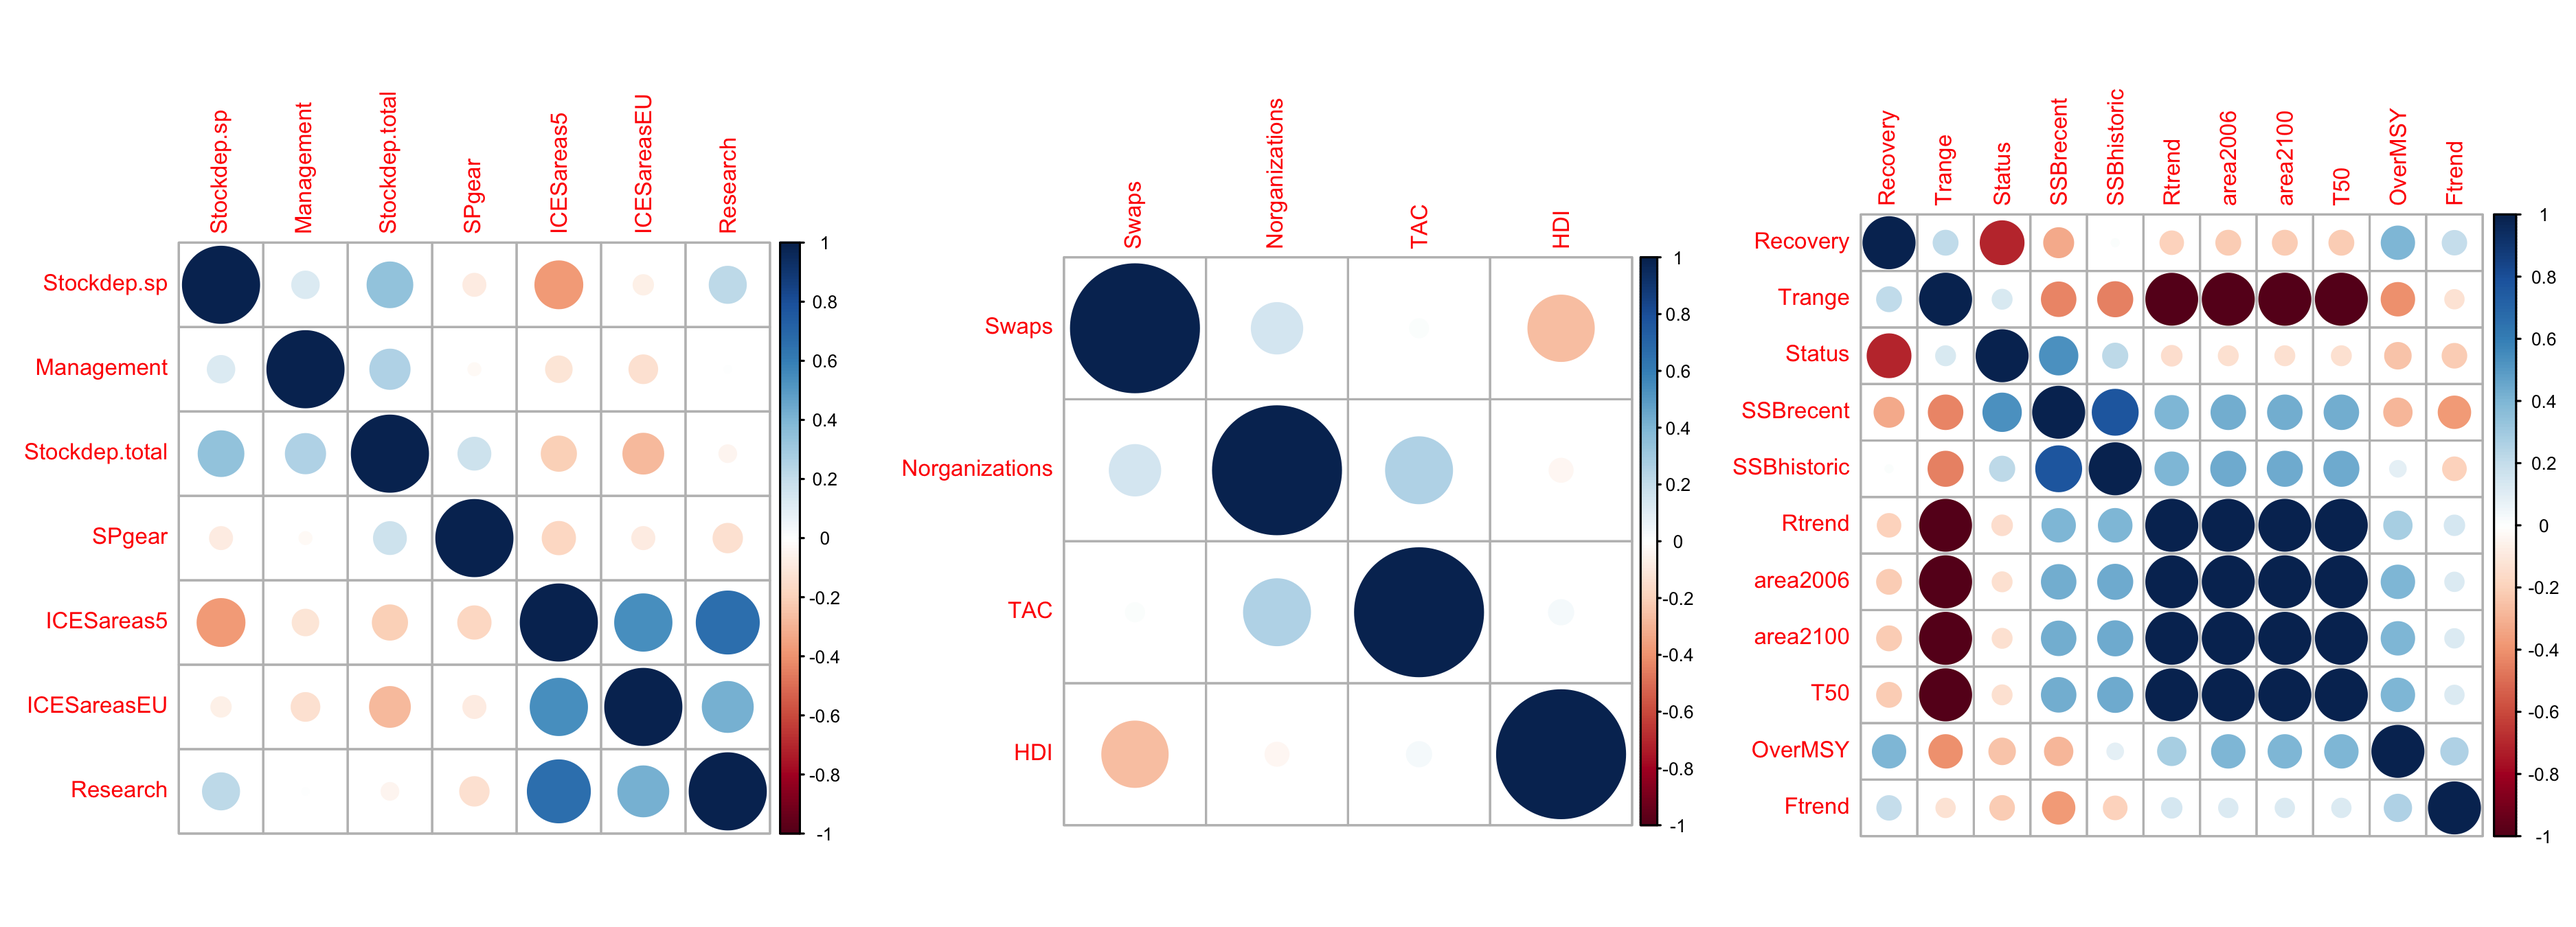
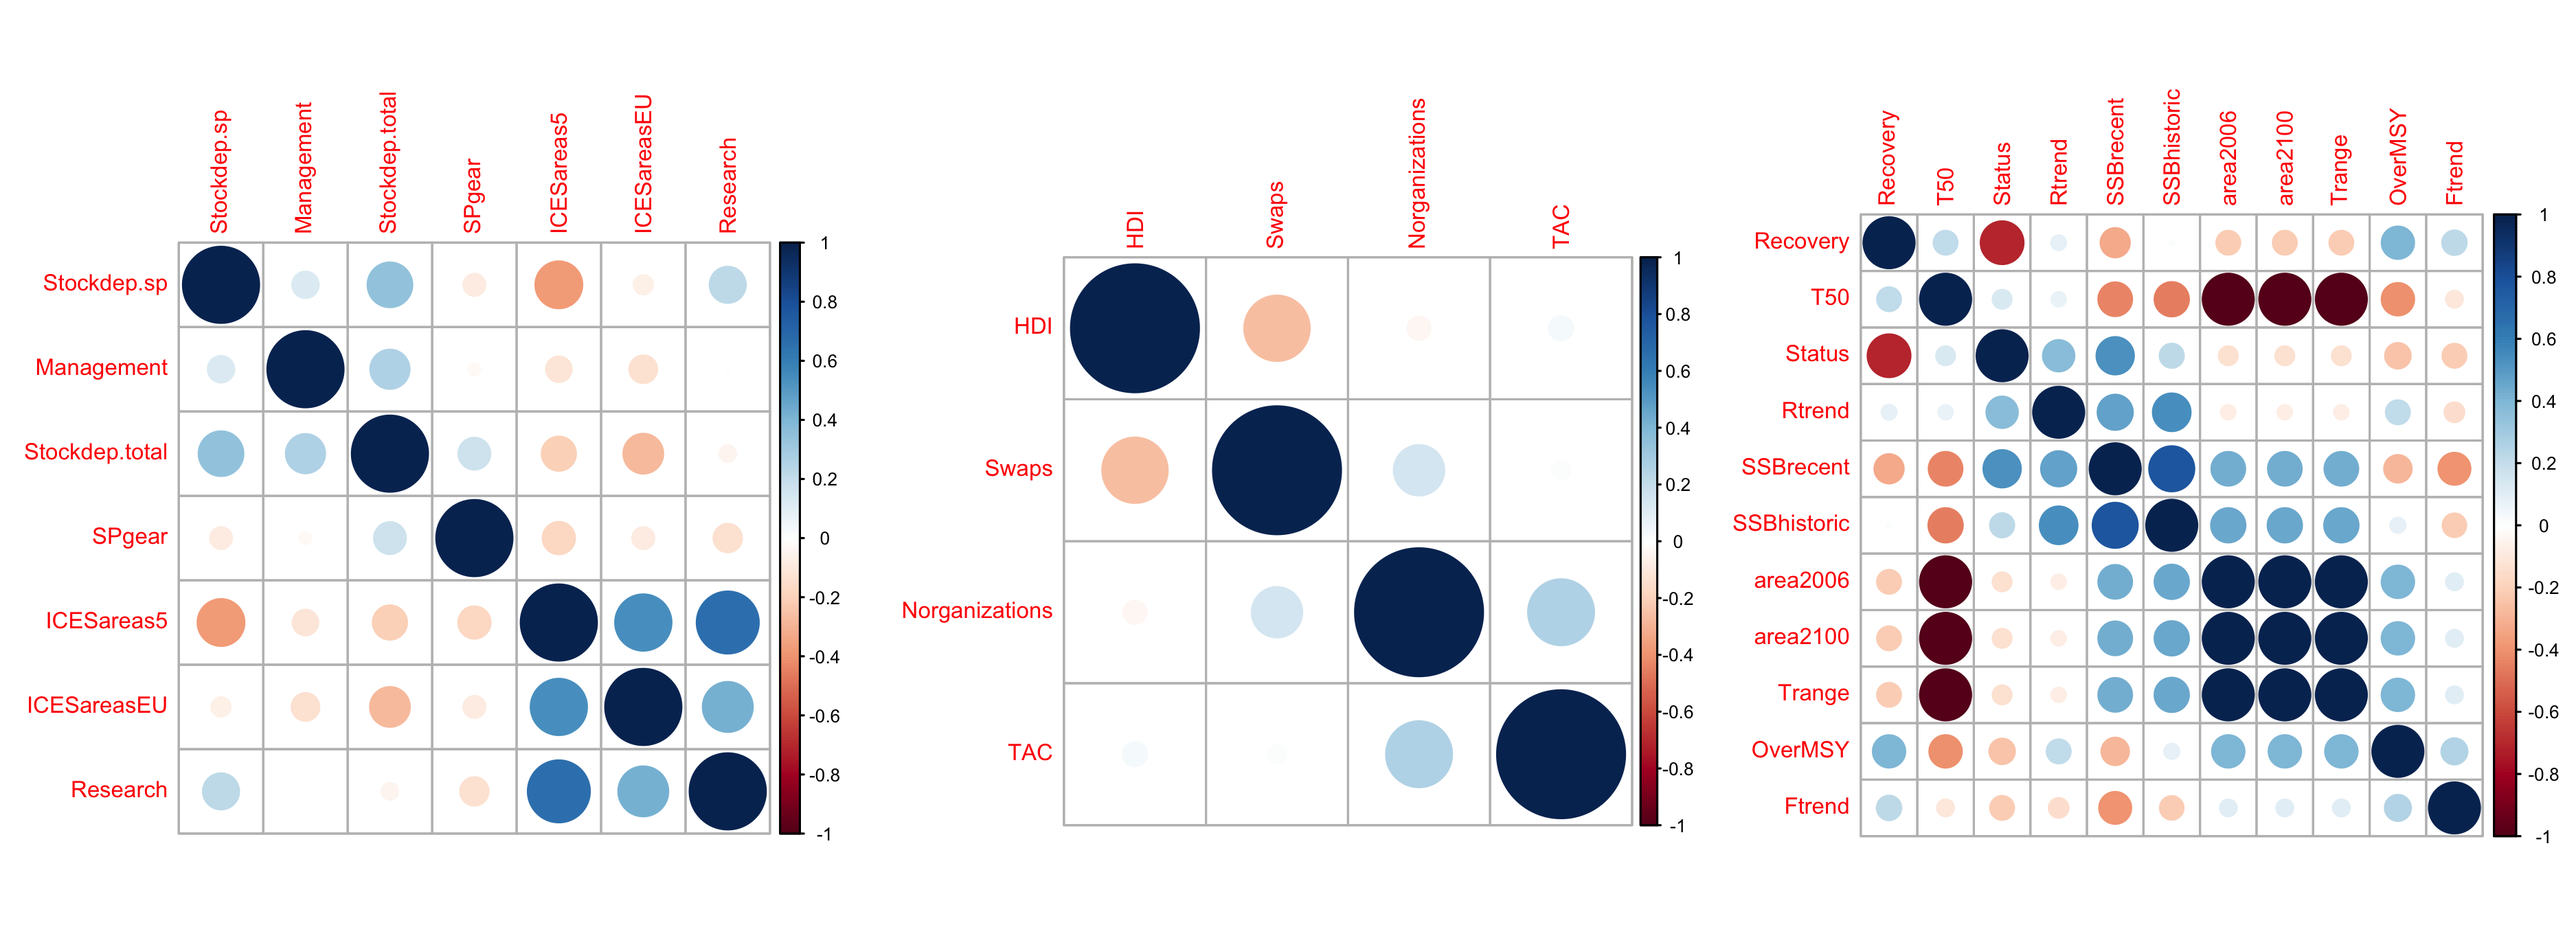
updated figure2 SI, figure 4SI and Fig dimensions to use the data created by preprocess_indicators and indexes.R.Updated all figures

diff --git a/Figures/README.md b/Figures/README.md
@@ -2,15 +2,18 @@
 
 ### Paper
 
-- Figure 1.png: Maps of Resilience Index’s results per country for Cod and Hake. 
-- Figure 2.png: Maps of Resilience Index per country and dimension. A and B represent institutional, C and D socioeconomic and E and F ecological dimensions. 
-- Figure 3.png: Graph comparison of RI index with other index per specie. Readiness and Vulnerability indices are significant with p<0.02 and p<0.001 respectively.
-- Fig dimensions.png: Graph dimensions comparison.
+- **Figure 1.png**: Maps of Resilience Index’s results per country for Cod and Hake. 
+
+- **Figure 2.png**: Maps of Resilience Index per country and dimension. A and B represent institutional, C and D socioeconomic and E and F ecological dimensions. 
+
+- **Figure 3.png**: Graph comparison of RI index with other index per specie. Readiness and Vulnerability indices are significant with p<0.02 and p<0.001 respectively.
+
+- **Fig dimensions.png**: Graph dimensions comparison.
 
 ### SSMM:
 
-- Fig 2 SI.png: Values of resilience factors per species. Dark colour European hake and light colour Atlantic cod. 
-- Fig 3 SI.png: Values of resilience dimensions per country. Points represent the composite resilience index. 
-- Fig 4 SI.png: Correlation analysis across resilience indicators. 
-- Fig 5 SI.png: Comparison of RI per specie and dimension with mean latitude of country.
-- Fig 6 SIa.png and Fig 6 SIb.png: Kobe-type plot limited at SSB/SSBlimit and F/Flimit.
+- **Fig 2 SI.png**: Values of resilience factors per species. Dark colour European hake and light colour Atlantic cod. 
+- **Fig 3 SI.png**: Values of resilience dimensions per country. Points represent the composite resilience index. 
+- **Fig 4 SI.png**: Correlation analysis across resilience indicators. 
+- **Fig 5 SI.png**: Comparison of RI per specie and dimension with mean latitude of country.
+- **Fig 6 SIa.png and Fig 6 SIb.png**: Kobe-type plot limited at SSB/SSBlimit and F/Flimit.
